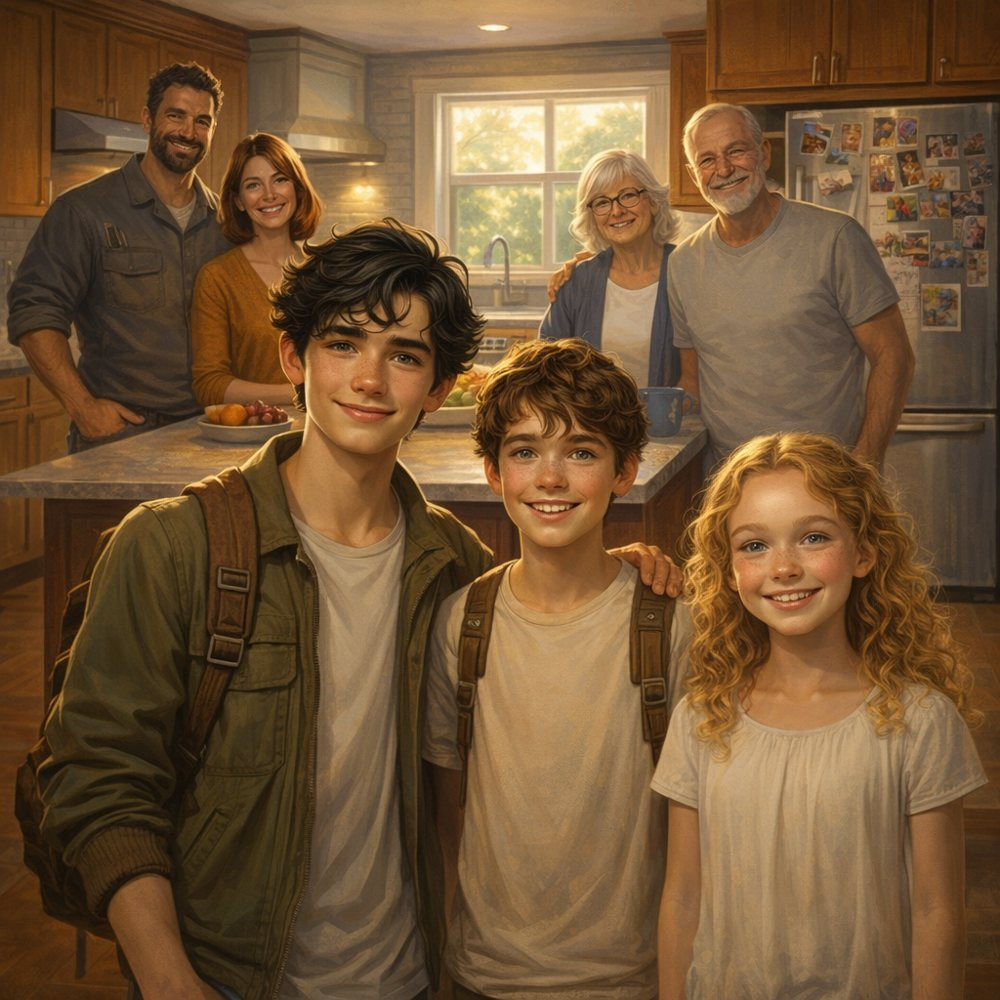
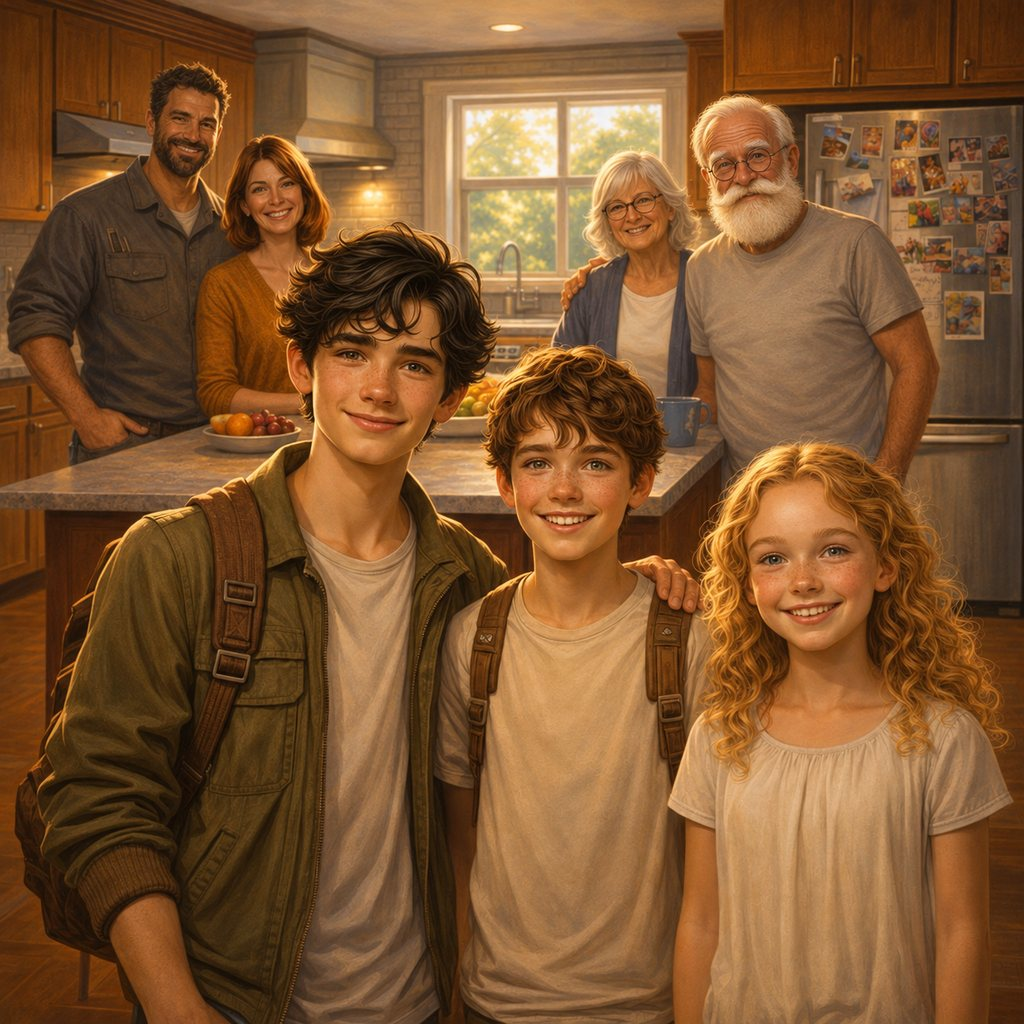
Game Version 22: painted answer pictures for every riddle and corrected chapter reveal pictures (Grandpa's beard, Dad's beard, no extra children)
Claude-Session: https://claude.ai/code/session_015buZBYE2VfpAMGZBf1rHnA

diff --git a/play/index.html b/play/index.html
@@ -1238,9 +1238,9 @@ const RIDDLES={
   {d:'medium',q:'Lily puts out party hats. 12 friends come, plus Oliver, Jack and Lily. Everyone gets one hat. How many hats does she need?',o:['12','14','15'],a:2,h:'Don’t forget Lily herself.',x:'12 friends plus 3 Wilderidge kids makes 15 hats.',img:'img/q3-3.jpg',t:'Fifteen hats!',c:'Lily never forgets a single guest. Not even herself.'},
   {d:'hard',q:'Grandma’s gift cost a lot, but Oliver knows this is what really made it special. The more you share me, the bigger I grow. What am I?',o:['Cake','A secret','Love'],a:2,h:'It’s the reason Oliver ran over and hugged Grandma.',x:'Love. Cake gets smaller when you share it, and a secret stops being a secret!',img:'img/q3-4.jpg',t:'Gogo wakes up',c:'A golden app appears all by itself. The adventure is about to begin.'}]}
 };
-const MIRROR={'The hallway clock':'img/m_clock.jpg','Grandpa Henry':'img/m_grandpa.jpg','The phone':'img/m_phone.jpg','Elderstone':'img/m_elder.jpg','Oliver':'img/m_oliver.jpg','Henry':'img/m_grandpa.jpg','Cake':'img/m_cake.jpg','A phone':'img/m_phone.jpg','Love':'img/m_grandma.jpg','Moonlight':'img/fx_crescent_moon.png','Darkness':'img/fx_night_with_stars.png','A blanket':'img/fx_bed.png','Gladys':'img/fx_old_woman.png','Cleo':'img/fx_cat.png','A ticket to space':'img/fx_ticket.png','A robot':'img/fx_robot.png','A puppy':'img/fx_dog_face.png','Ethan':'img/fx_boy.png','An egg':'img/fx_egg.png','A promise':'img/fx_handshake.png','A balloon':'img/fx_balloon.png','Your age':'img/fx_birthday_cake.png','The sun':'img/fx_sun.png','A deck of cards':'img/fx_joker.png','A castle':'img/fx_castle.png','Chess':'img/fx_chess_pawn.png','A towel':'img/fx_bathtub.png','A sponge':'img/fx_sponge.png','A water gun':'img/fx_water_pistol.png','A secret':'img/fx_shushing_face.png'};
+const MIRROR={'The hallway clock':'img/m_clock.jpg','Grandpa Henry':'img/m_grandpa.jpg','The phone':'img/m_phone.jpg','Elderstone':'img/m_elder.jpg','Oliver':'img/m_oliver.jpg','Henry':'img/m_grandpa.jpg','Cake':'img/m_cake.jpg','A phone':'img/m_phone.jpg','Love':'img/m_grandma.jpg','Moonlight':'img/m_moonlight.jpg','Darkness':'img/m_darkness.jpg','A blanket':'img/m_blanket.jpg','Gladys':'img/m_gladys.jpg','Cleo':'img/m_cleo.jpg','A ticket to space':'img/m_ticket.jpg','A robot':'img/m_robot.jpg','A puppy':'img/m_puppy.jpg','Ethan':'img/m_ethan.jpg','An egg':'img/m_egg.jpg','A promise':'img/m_promise.jpg','A balloon':'img/m_balloon.jpg','Your age':'img/m_age.jpg','The sun':'img/m_sun.jpg','A deck of cards':'img/m_cards.jpg','A castle':'img/m_castle.jpg','Chess':'img/m_chess.jpg','A towel':'img/m_towel.jpg','A sponge':'img/m_sponge.jpg','A water gun':'img/m_watergun.jpg','A secret':'img/m_secret.jpg'};
 function medal(t){const b=el('<button class="med" type="button"><span class="mirror"><span class="glass"></span></span><span class="lbl"></span></button>');b.querySelector('.lbl').textContent=t;const g=b.querySelector('.glass');
- const NUMPIC=/^\d+$/.test(t)?(rch===1?'img/fx_bell.png':'img/fx_partying_face.png'):null;const src=MIRROR[t]||NUMPIC;
+ const NUMPIC=/^\d+$/.test(t)?(rch===1?'img/m_bell.jpg':'img/m_hats.jpg'):null;const src=MIRROR[t]||NUMPIC;
  if(src){const i=el('<img alt="">');i.src=src;if(/\.png$/.test(src))i.className='icon';g.append(i);g.append(el('<span class="mist"></span>'));if(NUMPIC){const n=el('<span class="numbadge"></span>');n.textContent=t;b.querySelector('.mirror').append(n)}}
  else{b.classList.add('wordonly');if(/^\d+$/.test(t))b.classList.add('numonly');const w=el('<span class="bigword"></span>');w.textContent=t;b.insertBefore(w,b.firstChild)}
  return b}
